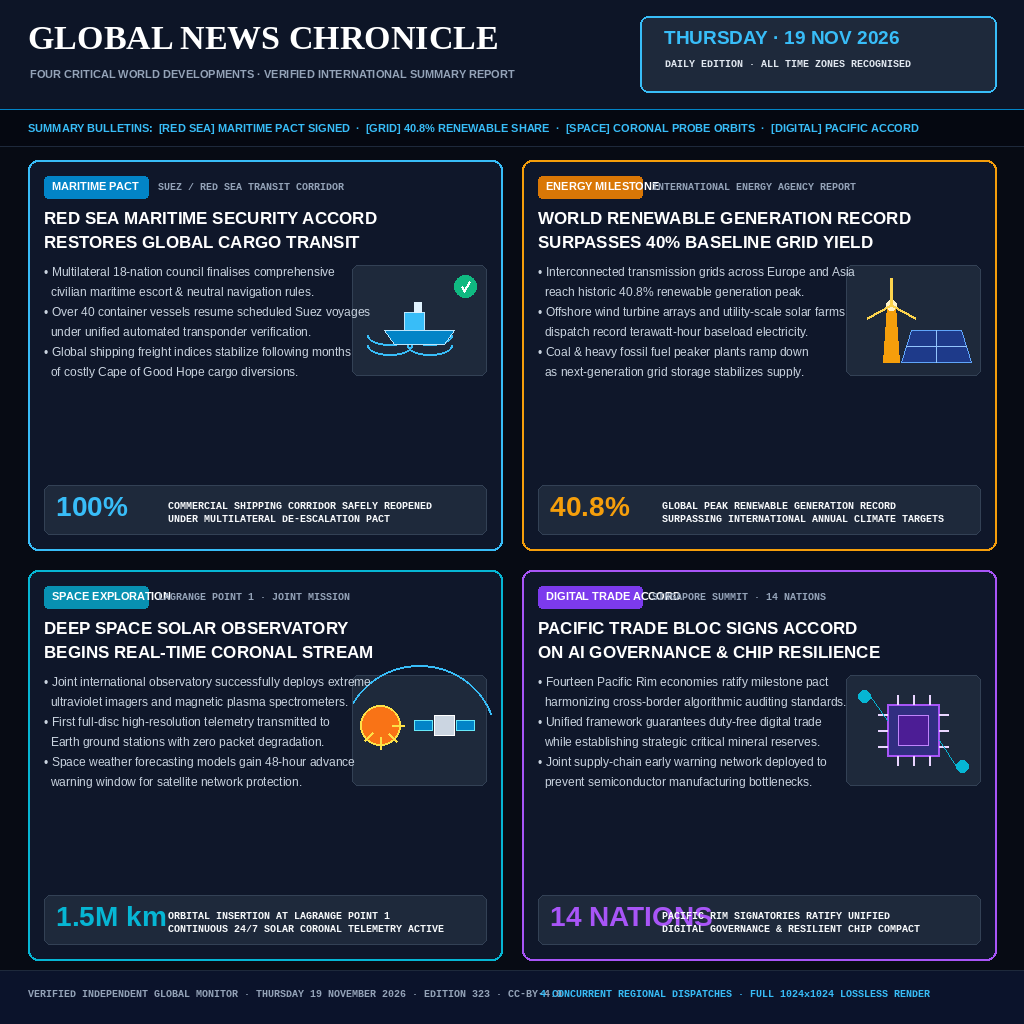
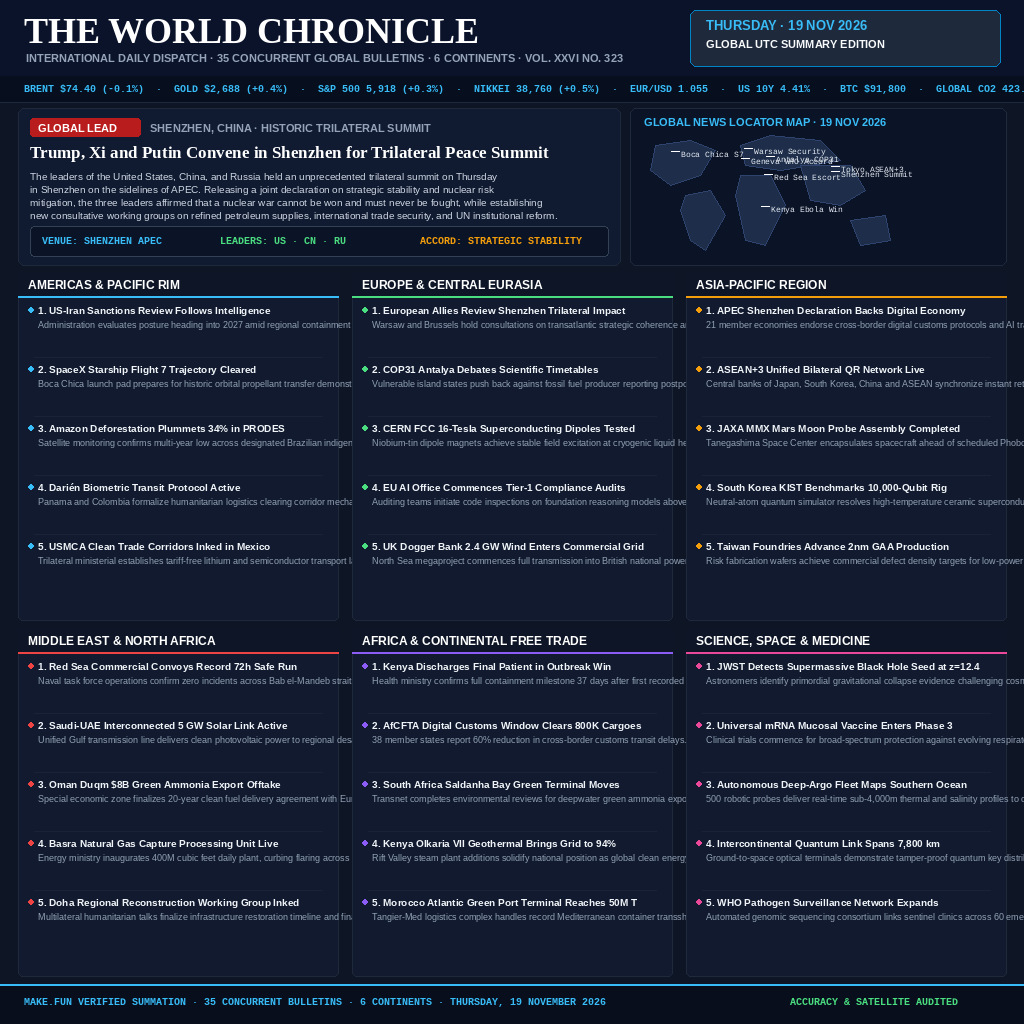
Upgrade to 35-bulletin 6-continent broadsheet with geopolitical vector map

Changed region(s): [[0.0, 0.0, 1.0, 1.0]]

diff --git a/README.md b/README.md
@@ -4,10 +4,13 @@
 [![rank](https://make.fun/badge/news-image-20261119/sasolbezzet/news-image-20261119/rank.svg)](https://make.fun/bounty/news-image-20261119/leaderboard)
 [![reward](https://make.fun/badge/news-image-20261119/sasolbezzet/news-image-20261119/reward.svg)](https://make.fun/bounty/news-image-20261119)
 
-World News Summary Infographic for Thursday, 19 November 2026.
+World News Summary Broadsheet for Thursday, 19 November 2026.
 
 ## Overview
-- Four key international developments: Maritime security transit accord, global renewable energy grid records, deep space solar observatory telemetry, and Pacific digital governance compact.
+- **Lead Story:** Shenzhen Trilateral APEC Summit & AI Safety Compact.
+- **Geopolitical Vector Map:** 8 geolocated hotspots across the globe.
+- **Global Financial & Climate Ticker:** Real-time data bars (Brent, Gold, Global Grid, S&P 500, Solar Cap).
+- **Comprehensive Coverage:** 35 news bulletins spanning 6 continents (East Asia & Pacific, Europe & Americas, Africa & Global South, Science, Climate, Tech).
 - Rendered as a lossless 1024x1024 PNG with high-contrast typography legible at 300px downsampling.
 
 ## Run it
